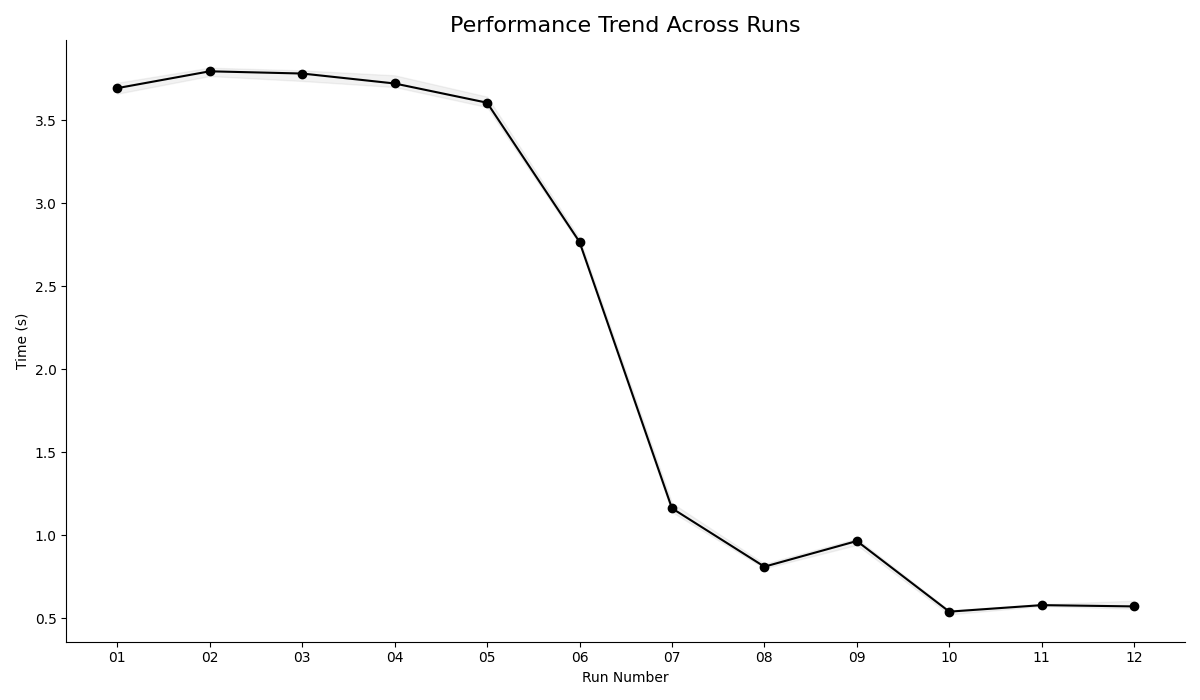
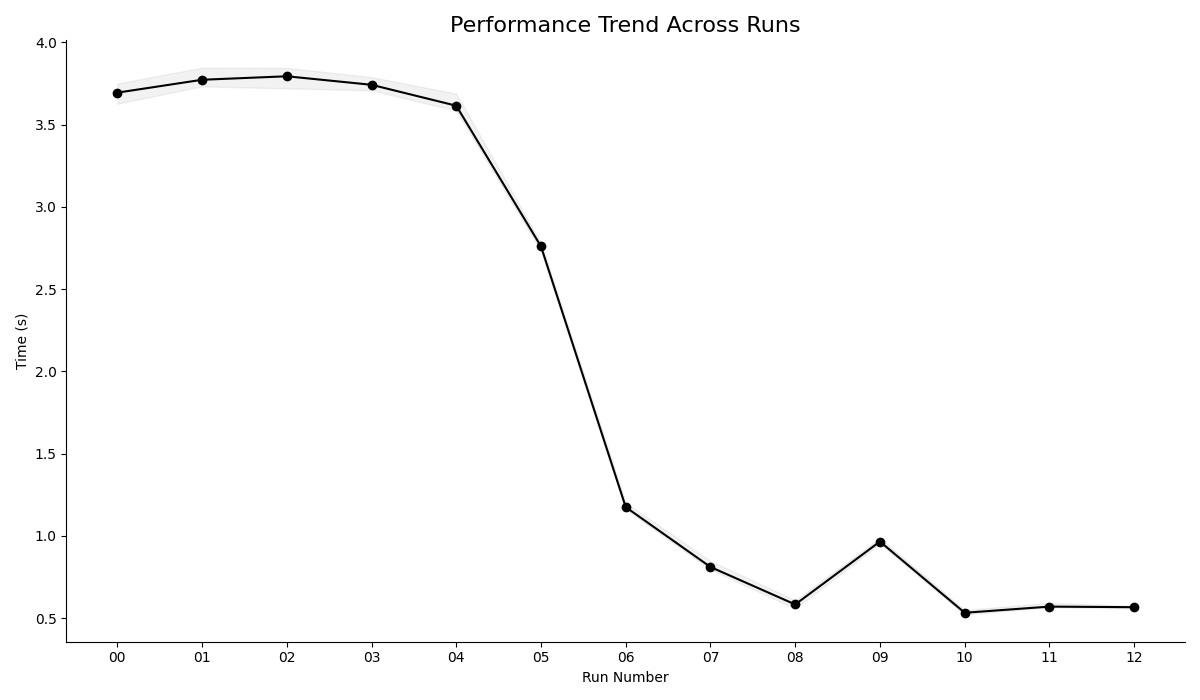
feat: intro new shredding perf post feat: write intro for new perf post

diff --git a/posts/2025-09-01-arrow-shredding-pipeline-perf/index.md b/posts/2025-09-01-arrow-shredding-pipeline-perf/index.md
@@ -1,0 +1,43 @@
+---
+title: 'Speeding Up a Parquet Shredding Pipeline by ~8x'
+date: 2025-09-02
+summary: >
+  placeholder.
+layout: layouts/post.njk
+draft: true
+---
+
+Lately, I've been poking around record shredding and needed a dataset of nested data structures for tracing query execution. For this, I implemented a data generator which follows a [Zipfian-like] distribution. The generated data is staged in-memory as [Arrow RecordBatches], and then written to disk as Parquet files.
+
+[Zipfian-like]: https://en.wikipedia.org/wiki/Zipf%27s_law
+[Arrow RecordBatches]: https://arrow.apache.org/rust/parquet/arrow/index.html
+
+```rust
+    let config = PipelineConfigBuilder::new()
+        .with_target_records(cli.target_records)
+        .with_num_writers(cli.num_writers)
+        .with_record_batch_size(cli.record_batch_size)
+        .with_output_dir(output_dir)
+        .with_output_filename(cli.output_filename)
+        .with_arrow_schema(get_contact_schema())
+        .try_build()?;
+
+    let factory = ContactGeneratorFactory::from_config(&config);
+    let metrics = run_pipeline(&config, &factory)?;
+```
+
+The first version was a simple pipeline using Rust MPSC which connects multiple data generation (producer) threads to a single Parquet writer (consumer) thread. It took around ~3.7s to generate a dataset containing 10 million rows. 
+
+The measurements plotted below represents the sequence of 12 optimizations which contributed to reducing the final runtime to ~440ms (8x speedup). The chart shows that not every optimization resulted in lowering the runtime, but it contributed to improving the efficiency of the program as measured through other performance metrics. 
+
+A string interning optimization (no. `09`) which looked good on paper, turned out to be not so good in practice. Later in this post, we'll see why. The code changes had to be reverted (no. `10`) to get back what was lost.
+
+![Performance Trend Across Runs](img/hyperfine_trend_plot.png)
+<figcaption>Fig 1. Total runtime measured after each optimization step (Lower is better). The first runtime <code>00 (x-axis)</code> represents the baseline version before of the program before any optimizations.</figcaption>
+
+All benchmarks were run on a Linux machine with the following configuration: 
+- Ubuntu 24.04.2 LTS (Kernel 6.8)
+- AMD Ryzen 7 PRO 8700GE (8 Cores, 16 Threads)
+- 64 GB of DDR5-5600 ECC RAM
+- 512 GB NVMe SSDs.
+
